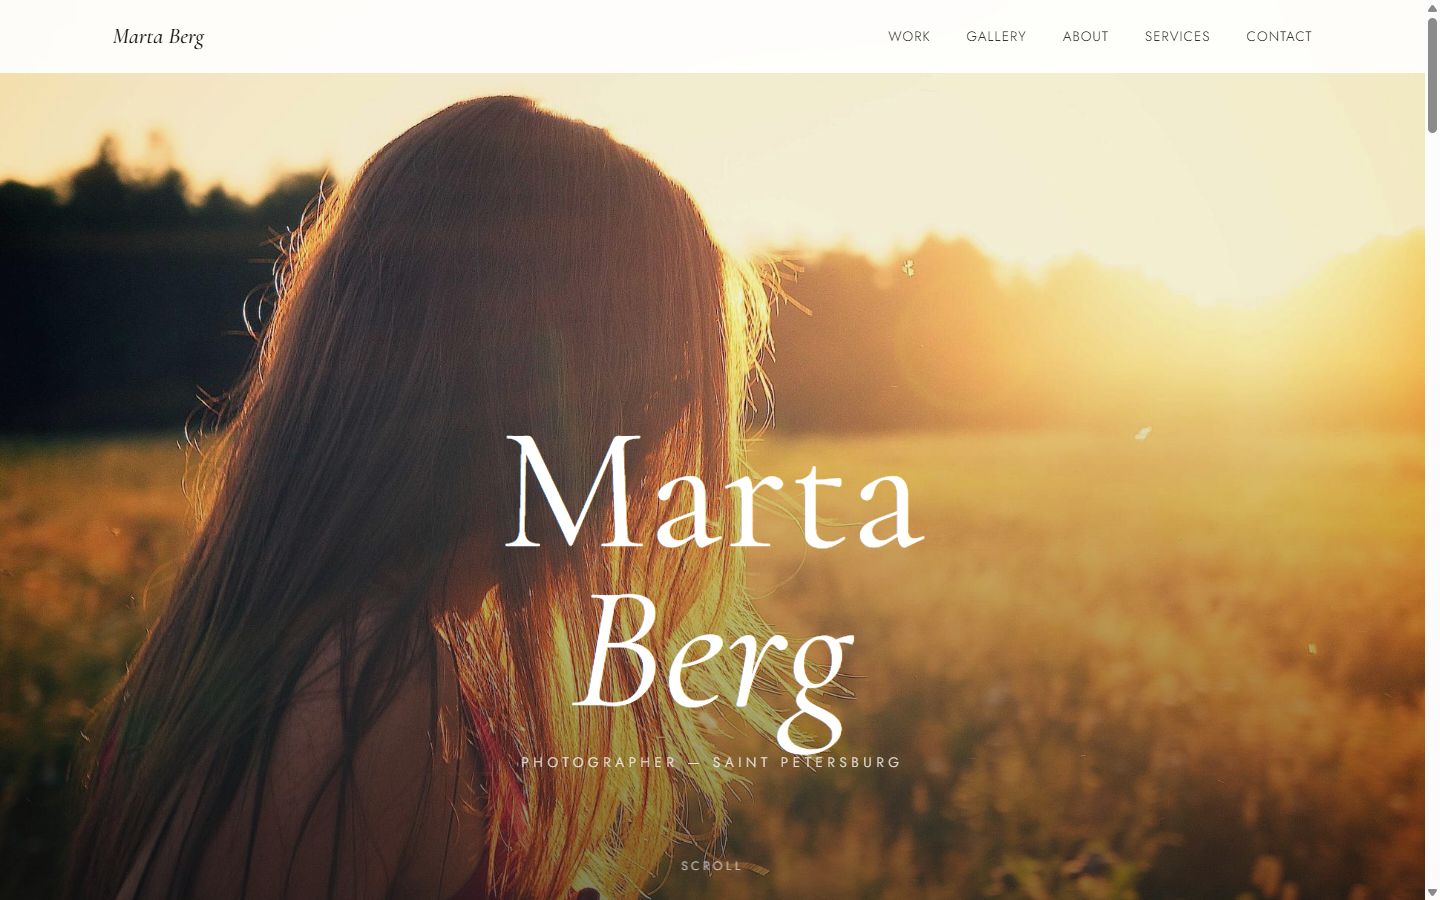
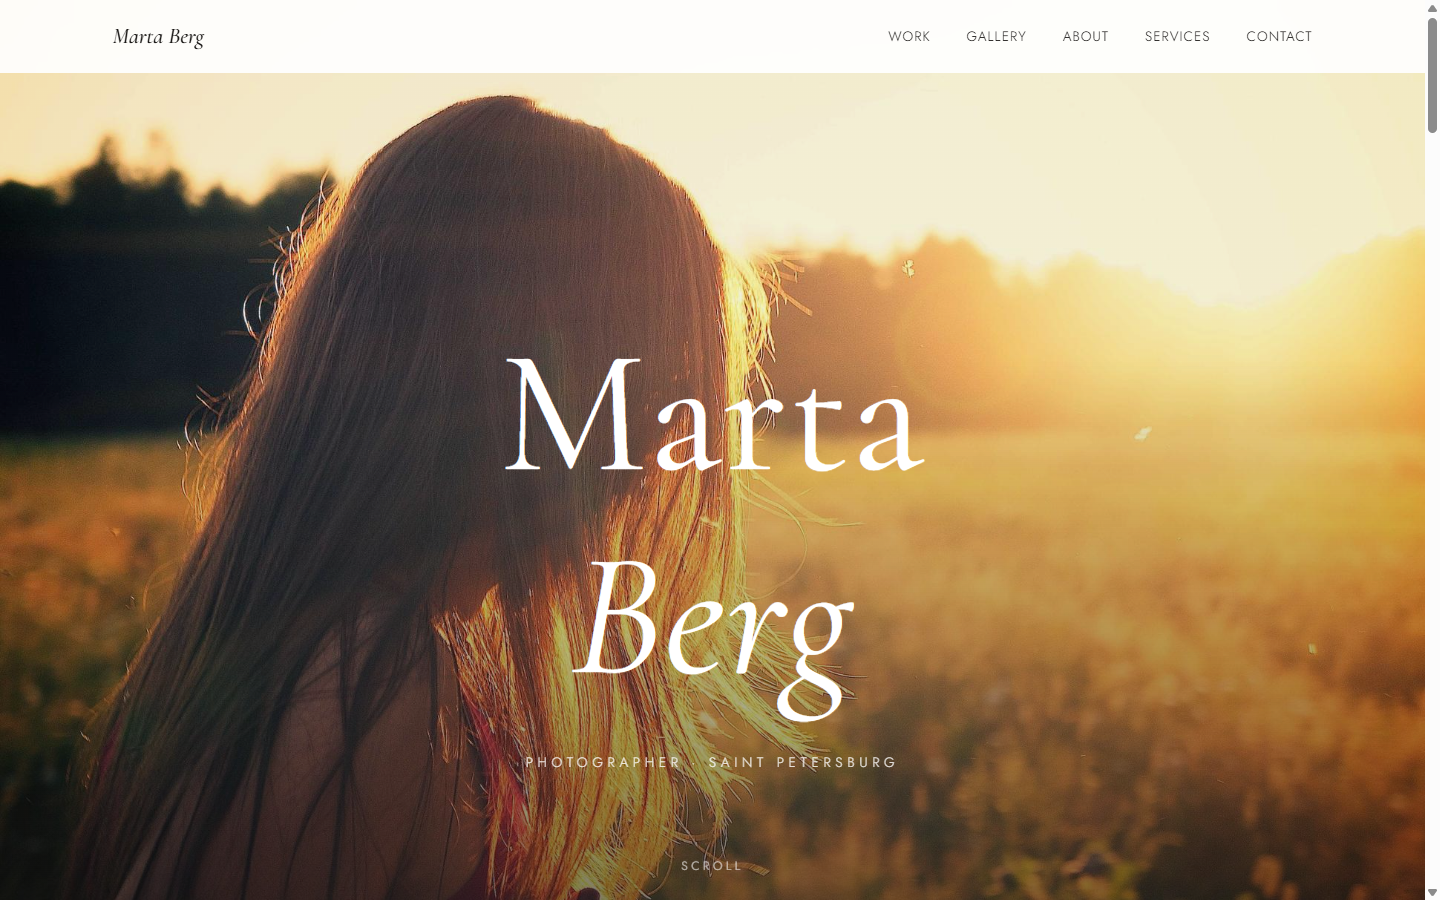
punctuation cleanup

Changed region(s): [[0.3438, 0.3733, 0.6562, 0.8711], [0.375, 0.84, 0.4688, 0.8711]]

diff --git a/index.html b/index.html
@@ -3,13 +3,13 @@
 <head>
   <meta charset="UTF-8">
   <meta name="viewport" content="width=device-width, initial-scale=1.0">
-  <title>Marta Berg — Photographer in Saint Petersburg</title>
+  <title>Marta Berg · Photographer in Saint Petersburg</title>
   <meta name="description" content="Marta Berg is a portrait, wedding and editorial photographer based in Saint Petersburg. Natural light, honest stories, timeless images.">
   <meta name="author" content="Marta Berg">
   <link rel="canonical" href="https://hmsusbusas-png.github.io/marta-berg/">
 
   <meta property="og:type" content="website">
-  <meta property="og:title" content="Marta Berg — Photographer in Saint Petersburg">
+  <meta property="og:title" content="Marta Berg · Photographer in Saint Petersburg">
   <meta property="og:description" content="Portrait, wedding and editorial photography. Saint Petersburg.">
   <meta property="og:url" content="https://hmsusbusas-png.github.io/marta-berg/">
   <meta property="og:image" content="https://hmsusbusas-png.github.io/marta-berg/screenshots/desktop.png">
@@ -75,40 +75,40 @@
       <h2 class="section__title reveal">Gallery</h2>
       <p class="section__lead reveal">A rotating selection from recent portrait, wedding and editorial shoots.</p>
       <div class="masonry">
-        <figure class="masonry__item reveal" data-caption="Vera — studio portrait, natural light">
+        <figure class="masonry__item reveal" data-caption="Vera, studio portrait, natural light">
           <img src="https://picsum.photos/seed/mb-g1/800/1000" alt="Studio portrait of Vera in soft window light" loading="lazy">
         </figure>
-        <figure class="masonry__item reveal" data-caption="Ksenia &amp; Mark — engagement walk on Vasilievsky Island">
+        <figure class="masonry__item reveal" data-caption="Ksenia &amp; Mark, engagement walk on Vasilievsky Island">
           <img src="https://picsum.photos/seed/mb-g2/800/560" alt="Engagement couple walking along the embankment" loading="lazy">
         </figure>
-        <figure class="masonry__item reveal" data-caption="Linen &amp; Stone — editorial for Atelier Nord">
+        <figure class="masonry__item reveal" data-caption="Linen &amp; Stone, editorial for Atelier Nord">
           <img src="https://picsum.photos/seed/mb-g3/800/1100" alt="Editorial fashion image in linen textures" loading="lazy">
         </figure>
         <figure class="masonry__item reveal" data-caption="Wedding morning at the Hotel Astoria">
           <img src="https://picsum.photos/seed/mb-g4/800/600" alt="Bride getting ready by a tall hotel window" loading="lazy">
         </figure>
-        <figure class="masonry__item reveal" data-caption="Dasha — dancer series, second take">
+        <figure class="masonry__item reveal" data-caption="Dasha, dancer series, second take">
           <img src="https://picsum.photos/seed/mb-g5/800/1050" alt="Dancer mid-movement in a rehearsal hall" loading="lazy">
         </figure>
         <figure class="masonry__item reveal" data-caption="First snow on Gorokhovaya Street">
           <img src="https://picsum.photos/seed/mb-g6/800/540" alt="Pedestrians crossing a snowy street" loading="lazy">
         </figure>
-        <figure class="masonry__item reveal" data-caption="Timur — actor headshots">
+        <figure class="masonry__item reveal" data-caption="Timur, actor headshots">
           <img src="https://picsum.photos/seed/mb-g7/800/1000" alt="Actor headshot against a plain grey backdrop" loading="lazy">
         </figure>
-        <figure class="masonry__item reveal" data-caption="Olga &amp; Pavel — registry office, first look">
+        <figure class="masonry__item reveal" data-caption="Olga &amp; Pavel, registry office, first look">
           <img src="https://picsum.photos/seed/mb-g8/800/620" alt="Newlyweds sharing a quiet moment on a staircase" loading="lazy">
         </figure>
-        <figure class="masonry__item reveal" data-caption="Silver Hour — personal series">
+        <figure class="masonry__item reveal" data-caption="Silver Hour, personal series">
           <img src="https://picsum.photos/seed/mb-g9/800/1080" alt="Figure in soft silver evening light" loading="lazy">
         </figure>
-        <figure class="masonry__item reveal" data-caption="Sofia — portrait with her grandmother's scarf">
+        <figure class="masonry__item reveal" data-caption="Sofia, portrait with her grandmother's scarf">
           <img src="https://picsum.photos/seed/mb-g10/800/980" alt="Close portrait of Sofia wearing a patterned scarf" loading="lazy">
         </figure>
-        <figure class="masonry__item reveal" data-caption="Backstage — theatre premiere, New Holland stage">
+        <figure class="masonry__item reveal" data-caption="Backstage, theatre premiere, New Holland stage">
           <img src="https://picsum.photos/seed/mb-g11/800/580" alt="Backstage moment before a theatre premiere" loading="lazy">
         </figure>
-        <figure class="masonry__item reveal" data-caption="Katya &amp; Anton — wedding on the Gulf of Finland">
+        <figure class="masonry__item reveal" data-caption="Katya &amp; Anton, wedding on the Gulf of Finland">
           <img src="https://picsum.photos/seed/mb-g12/800/1020" alt="Couple standing by the water at dusk" loading="lazy">
         </figure>
       </div>
@@ -122,9 +122,9 @@
       </figure>
       <div class="about__text">
         <h2 class="section__title reveal">About</h2>
-        <p class="reveal">I am a photographer based in Saint Petersburg, working mostly with people: portraits, weddings and editorial assignments. I came to photography through drawing, and I still think of every frame as a line — where it starts, where it rests, what it leaves out.</p>
+        <p class="reveal">I am a photographer based in Saint Petersburg, working mostly with people: portraits, weddings and editorial assignments. I came to photography through drawing, and I still think of every frame as a line: where it starts, where it rests, what it leaves out.</p>
         <p class="reveal">For the past nine years I have shot on the embankments, in old stairwells and rented studios, in winter light that forgives almost nothing. My approach is quiet: minimal direction, no forced poses, long walks when the weather allows. The best photographs usually happen ten minutes after everyone stops performing for the camera.</p>
-        <p class="reveal">Alongside client work I keep a slow personal practice and exhibit from time to time. If you are planning a shoot and want images that still feel like you in ten years — I would be glad to hear about it.</p>
+        <p class="reveal">Alongside client work I keep a slow personal practice and exhibit from time to time. If you are planning a shoot and want images that still feel like you in ten years, I would be glad to hear about it.</p>
         <ul class="about__facts reveal">
           <li><strong>9</strong><span>years of practice</span></li>
           <li><strong>200+</strong><span>shoots delivered</span></li>
@@ -162,7 +162,7 @@
       <h2 class="section__title reveal">Kind words</h2>
       <div class="testimonials__grid">
         <blockquote class="quote reveal">
-          <p>Marta photographed our wedding the way a friend would — quietly, at the right moments, never in anyone's way. A year later we still find new details in the pictures.</p>
+          <p>Marta photographed our wedding the way a friend would: quietly, at the right moments, never in anyone's way. A year later we still find new details in the pictures.</p>
           <cite>Nadia &amp; Ilya, married in June</cite>
         </blockquote>
         <blockquote class="quote reveal">
@@ -213,7 +213,7 @@
           <span class="form__error" data-error-for="message"></span>
         </label>
         <button class="form__submit" type="submit">Send request</button>
-        <p class="form__success" id="formSuccess" role="status" hidden>Thank you — your message is on its way. I will reply within two working days.</p>
+        <p class="form__success" id="formSuccess" role="status" hidden>Thank you! Your message is on its way. I will reply within two working days.</p>
       </form>
     </div>
   </section>
@@ -224,7 +224,7 @@
   <div class="container footer__row">
     <span>© <span id="year">2026</span> Marta Berg</span>
     <span>Saint Petersburg</span>
-    <span>Concept portfolio — contact details are demo</span>
+    <span>Concept portfolio · contact details are demo</span>
     <a href="#top">Back to top</a>
   </div>
 </footer>

diff --git a/css/style.css b/css/style.css
@@ -47,8 +47,6 @@ img { display: block; max-width: 100%; }
   margin-bottom: 3rem;
 }
 
-/* Nav */
-
 .site-header {
   position: fixed;
   inset: 0 0 auto 0;
@@ -122,8 +120,6 @@ img { display: block; max-width: 100%; }
 .nav__toggle.is-open span:first-child { transform: translateY(3.75px) rotate(45deg); }
 .nav__toggle.is-open span:last-child { transform: translateY(-3.75px) rotate(-45deg); }
 
-/* Hero */
-
 .hero {
   position: relative;
   height: 100svh;
@@ -185,8 +181,6 @@ img { display: block; max-width: 100%; }
   50% { transform: translate(-50%, 8px); }
 }
 
-/* Featured */
-
 .featured__grid {
   display: grid;
   grid-template-columns: 1fr 1.4fr 1fr;
@@ -207,8 +201,6 @@ img { display: block; max-width: 100%; }
   color: var(--muted);
 }
 
-/* Masonry gallery */
-
 .masonry {
   columns: 3;
   column-gap: 1.5rem;
@@ -228,12 +220,8 @@ img { display: block; max-width: 100%; }
 
 .masonry__item:hover img { transform: scale(1.04); }
 
-/* Lazy fade-in */
-
 img[data-loaded="false"] { opacity: 0; }
 img[data-loaded="true"] { opacity: 1; transition: opacity 0.7s ease; }
-
-/* About */
 
 .about__grid {
   display: grid;
@@ -270,8 +258,6 @@ img[data-loaded="true"] { opacity: 1; transition: opacity 0.7s ease; }
   color: var(--muted);
 }
 
-/* Services */
-
 .services__list { display: grid; gap: 0; }
 
 .service {
@@ -300,8 +286,6 @@ img[data-loaded="true"] { opacity: 1; transition: opacity 0.7s ease; }
   white-space: nowrap;
 }
 
-/* Testimonials */
-
 .testimonials__grid {
   display: grid;
   grid-template-columns: 1fr 1fr;
@@ -328,8 +312,6 @@ img[data-loaded="true"] { opacity: 1; transition: opacity 0.7s ease; }
   text-transform: uppercase;
   color: var(--muted);
 }
-
-/* Contact */
 
 .contact__grid {
   display: grid;
@@ -420,8 +402,6 @@ img[data-loaded="true"] { opacity: 1; transition: opacity 0.7s ease; }
   padding: 1rem 1.25rem;
 }
 
-/* Footer */
-
 .site-footer {
   border-top: 1px solid var(--line);
   padding: 2rem 0;
@@ -441,13 +421,10 @@ img[data-loaded="true"] { opacity: 1; transition: opacity 0.7s ease; }
   text-decoration: none;
 }
 
-/* keyboard focus on gallery tiles acting as buttons */
 .masonry__item:focus-visible {
   outline: 2px solid var(--ink);
   outline-offset: 4px;
 }
-
-/* Lightbox */
 
 .lightbox {
   position: fixed;
@@ -505,8 +482,6 @@ img[data-loaded="true"] { opacity: 1; transition: opacity 0.7s ease; }
 .lightbox__arrow--prev { left: 1rem; top: 50%; transform: translateY(-50%); }
 .lightbox__arrow--next { right: 1rem; top: 50%; transform: translateY(-50%); }
 
-/* Reveal on scroll */
-
 .reveal {
   opacity: 0;
   transform: translateY(24px);
@@ -523,8 +498,6 @@ img[data-loaded="true"] { opacity: 1; transition: opacity 0.7s ease; }
   .reveal { opacity: 1; transform: none; transition: none; }
   .hero__scroll { animation: none; }
 }
-
-/* Responsive */
 
 @media (max-width: 900px) {
   .section { padding: 5rem 0; }

diff --git a/js/main.js b/js/main.js
@@ -1,7 +1,6 @@
 (function () {
   'use strict';
 
-  // Mobile nav
   const navToggle = document.getElementById('navToggle');
   const navLinks = document.getElementById('navLinks');
 
@@ -21,7 +20,6 @@
     });
   }
 
-  // Header border after scrolling past the top
   const header = document.querySelector('.site-header');
   if (header) {
     const onScroll = function () {
@@ -31,7 +29,6 @@
     onScroll();
   }
 
-  // Fade-in images once loaded
   const images = Array.prototype.slice.call(document.querySelectorAll('img'));
   images.forEach(function (img) {
     img.setAttribute('data-loaded', 'false');
@@ -44,7 +41,6 @@
     }
   });
 
-  // Reveal on scroll
   const revealItems = document.querySelectorAll('.reveal');
   if ('IntersectionObserver' in window && revealItems.length) {
     const io = new IntersectionObserver(function (entries) {
@@ -60,7 +56,6 @@
     revealItems.forEach(function (el) { el.classList.add('is-visible'); });
   }
 
-  // Lightbox
   const lightbox = document.getElementById('lightbox');
   const lightboxImg = document.getElementById('lightboxImg');
   const lightboxCaption = document.getElementById('lightboxCaption');
@@ -104,7 +99,6 @@
 
   if (lightbox && lightboxImg) {
     galleryItems.forEach(function (item, index) {
-      // button-like доступ с клавиатуры
       item.setAttribute('tabindex', '0');
       item.setAttribute('role', 'button');
       item.setAttribute('aria-label', 'Open photo: ' + (item.getAttribute('data-caption') || 'gallery image'));
@@ -127,7 +121,6 @@
       }
     });
 
-    // фокус не покидает открытый лайтбокс
     lightbox.addEventListener('keydown', function (e) {
       if (e.key !== 'Tab') return;
       const focusables = [btnClose, btnPrev, btnNext].filter(Boolean);
@@ -151,11 +144,9 @@
     });
   }
 
-  // Keep the year current in the small footer label.
   const year = document.getElementById('year');
   if (year) year.textContent = new Date().getFullYear();
 
-  // Contact form validation
   const form = document.getElementById('contactForm');
   if (form) {
     const success = document.getElementById('formSuccess');

diff --git a/README.md b/README.md
@@ -1,6 +1,6 @@
-# Marta Berg — сайт-портфолио фотографа
+# Marta Berg. Сайт-портфолио фотографа
 
-Одностраничное портфолио фотографа из Санкт-Петербурга: портрет, свадьбы, editorial. Фотограф вымышленный, это концепт для портфолио — снимки и контакты демонстрационные. Ванильные HTML, CSS и JavaScript, без фреймворков и сборки.
+Одностраничное портфолио фотографа из Санкт-Петербурга: портрет, свадьбы, editorial. Фотограф вымышленный, это концепт для портфолио, снимки и контакты демонстрационные. Ванильные HTML, CSS и JavaScript, без фреймворков и сборки.
 
 **Живой сайт:** [hmsusbusas-png.github.io/marta-berg](https://hmsusbusas-png.github.io/marta-berg/)
 
@@ -19,7 +19,7 @@
 
 ## Как посмотреть
 
-Открыть `index.html` в браузере — этого хватит. Вариант с локальным сервером:
+Достаточно открыть `index.html` в браузере. Вариант с локальным сервером:
 
 ```powershell
 # PowerShell, из папки проекта
@@ -32,7 +32,7 @@ python -m http.server 8000
 ## Честно об ограничениях
 
 - Форма заявки ничего не отправляет: валидация и «спасибо» отрабатывают на клиенте, бэкенда нет
-- Все фотографии — заглушки с picsum.photos, к реальным работам отношения не имеют
+- Все фотографии взяты с picsum.photos, к реальным работам отношения не имеют
 - Имя, биография, цены и контакты демонстрационные
 
 ## Структура
@@ -48,7 +48,7 @@ marta-berg/
 
 ## Стек
 
-HTML, CSS, ванильный JavaScript. Галерея — чистый CSS columns, лайтбокс написан руками, библиотек нет.
+HTML, CSS, ванильный JavaScript. Галерея на чистом CSS columns, лайтбокс написан руками, библиотек нет.
 
 ---
 
